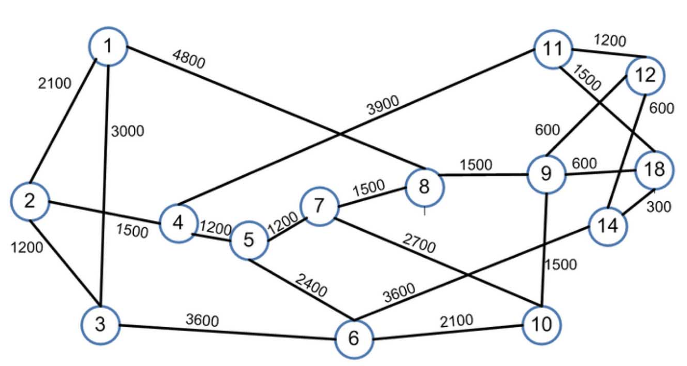
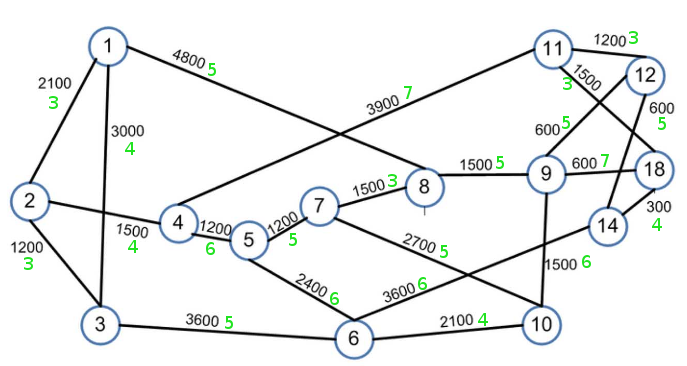
add capacity property &  update graph & update readme.md

diff --git a/project_study/project_study.cpp b/project_study/project_study.cpp
@@ -1,6 +1,9 @@
 #include "yen_ksp.hpp"
 
+#include <boost/config.hpp>
 #include <boost/graph/adjacency_list.hpp>
+#include <boost/utility.hpp>
+#include <boost/property_map/property_map.hpp>
 #include <boost/graph/filtered_graph.hpp>
 #include <iostream>
 #include <list>
@@ -12,21 +15,47 @@
 
 using namespace boost;
 
-typedef adjacency_list<vecS, vecS, bidirectionalS, property<vertex_name_t, std::string>, property<edge_weight_t, int>> graph_t;
+
+//vertex & edge properties
+typedef property<vertex_name_t, std::string> vertex_properties;
+typedef property < edge_weight_t, int, property<edge_capacity_t, int, 
+	property<edge_residual_capacity_t, int> > > edge_properties;
+
+//graph typedef
+typedef adjacency_list< vecS, vecS, bidirectionalS,	vertex_properties, edge_properties >
+	graph_t;
+
+//vertex & edge descriptor
 typedef graph_traits<graph_t>::vertex_descriptor vertex_t;
 typedef graph_traits<graph_t>::edge_descriptor edge_t;
 
-template<typename graph_t, typename vertex_name_map_t, typename edge_name_map_t>
-void construct_graph(std::ifstream &file_in, graph_t &g, vertex_name_map_t name_map, edge_name_map_t weight_map)
+//property map typedef
+typedef property_map<graph_t, vertex_name_t>::type vertex_name_map_t;
+typedef property_map<graph_t, edge_weight_t>::type edge_weight_map_t;
+typedef property_map<graph_t, edge_capacity_t>::type edge_capacity_map_t;
+typedef property_map<graph_t, edge_residual_capacity_t>::type edge_residual_capacity_map_t;
+
+
+
+template<typename graph_t>
+void construct_graph(std::ifstream &file_in, graph_t &g)
 {
+	//property map
+	vertex_name_map_t name_map = get(vertex_name, g);	
+	edge_weight_map_t weight_map = get(edge_weight, g);	
+	edge_capacity_map_t capacity_map = get(edge_capacity, g);
+	edge_residual_capacity_map_t residual_capacity_map = get(edge_residual_capacity, g);
+	
 	typename property_traits<vertex_name_map_t>::value_type s, t;
-	typename property_traits<edge_name_map_t>::value_type weight;
+	typename property_traits<edge_weight_map_t>::value_type weight;
+	typename property_traits<edge_capacity_map_t>::value_type capacity;
+	typename property_traits<edge_residual_capacity_map_t>::value_type residual_capacity;
 	typedef std::map<std::string, vertex_t> name_map_t;
 	name_map_t vertex_name_map;
 
 	for (std::string line; std::getline(file_in, line);)
 	{
-		std::istringstream(line) >> s >> t >> weight;
+		std::istringstream(line) >> s >> t >> weight >> capacity;
 
 		name_map_t::iterator pos;
 		bool inserted;
@@ -55,7 +84,12 @@ void construct_graph(std::ifstream &file_in, graph_t &g, vertex_name_map_t name_
 		edge_t e;
 		tie(e, inserted) = add_edge(u, v, g);
 		if (inserted)
+		{
 			weight_map[e] = weight;
+			capacity_map[e] = capacity;
+			residual_capacity = capacity;
+		}
+
 
 	}
 
@@ -76,14 +110,13 @@ int main()
 	graph_t g;
 
 	//property map
-	typedef property_map<graph_t, vertex_name_t>::type name_map_t;
-	name_map_t name_map = get(vertex_name, g);
-	typedef property_map<graph_t, edge_weight_t>::type weight_map_t;
-	weight_map_t weight_map = get(edge_weight, g);
+	vertex_name_map_t name_map = get(vertex_name, g);
+	edge_weight_map_t weight_map = get(edge_weight, g);
+	edge_capacity_map_t capacity_map = get(edge_capacity, g);
+	edge_residual_capacity_map_t residual_capacity_map = get(edge_residual_capacity, g);
 
 	//construct the graph
-	construct_graph(file_in, g, name_map, weight_map);
-
+	construct_graph(file_in, g);
 
 	//k-shortest test
 	typedef std::list<edge_t> Path;
@@ -92,7 +125,7 @@ int main()
 	vertex_t dst = *(vertices(g).first + 10);
 	r = yen_ksp(g, src, dst, 3);
 
-	
+
 	//k-shortest path output
 	int k = 1;
 	for (auto k_path : r)

diff --git a/README.md b/README.md
@@ -10,8 +10,8 @@ Input  Graph
 
 <br>
 從 graph_input.txt 輸入圖  
-格式:  
-　vertex_name　vertex_name　edge_weight
+格式: 
+>vertex_name　vertex_name　edge_weight　edge_capacity
 
 <br>
 k-shortest path 使用 https://svn.boost.org/trac/boost/ticket/11838 的實作  
